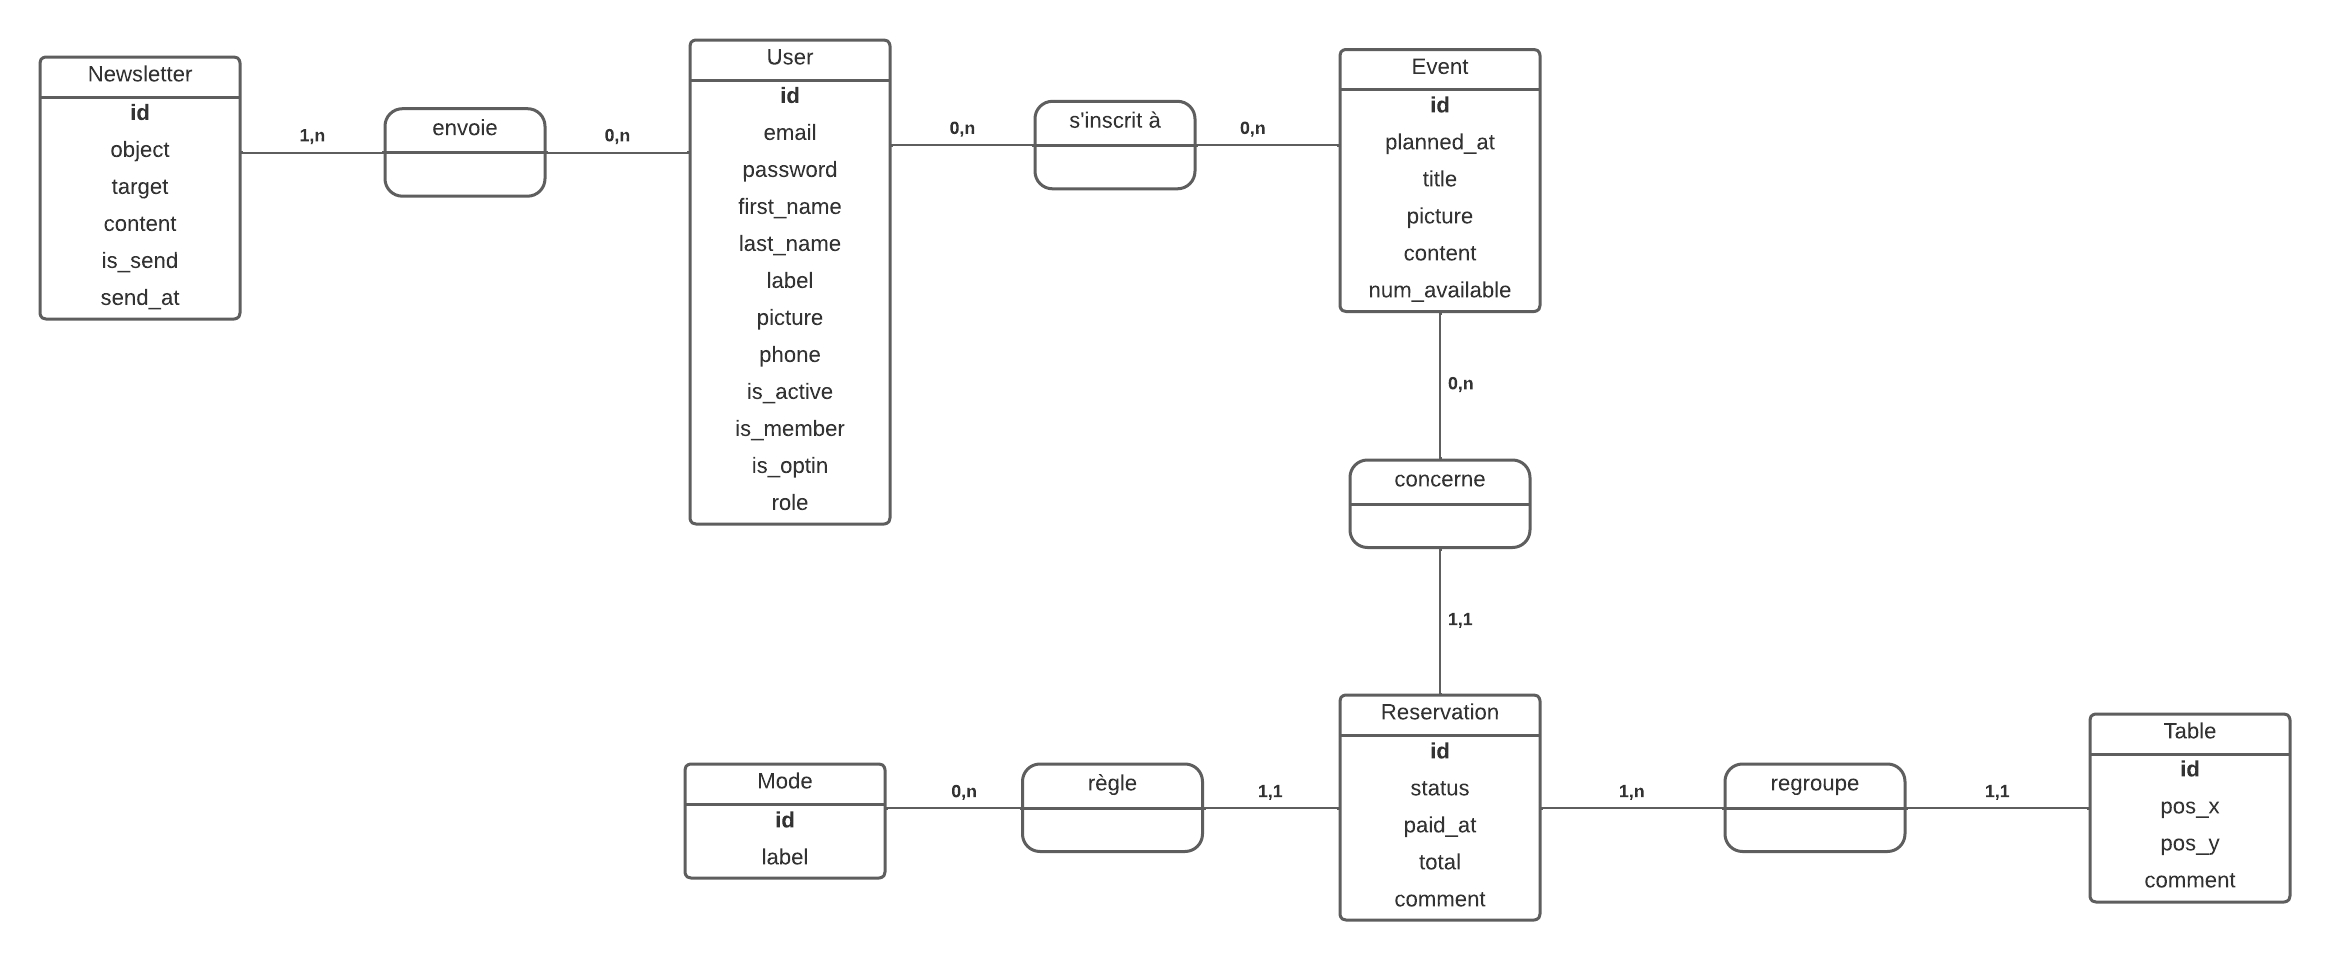
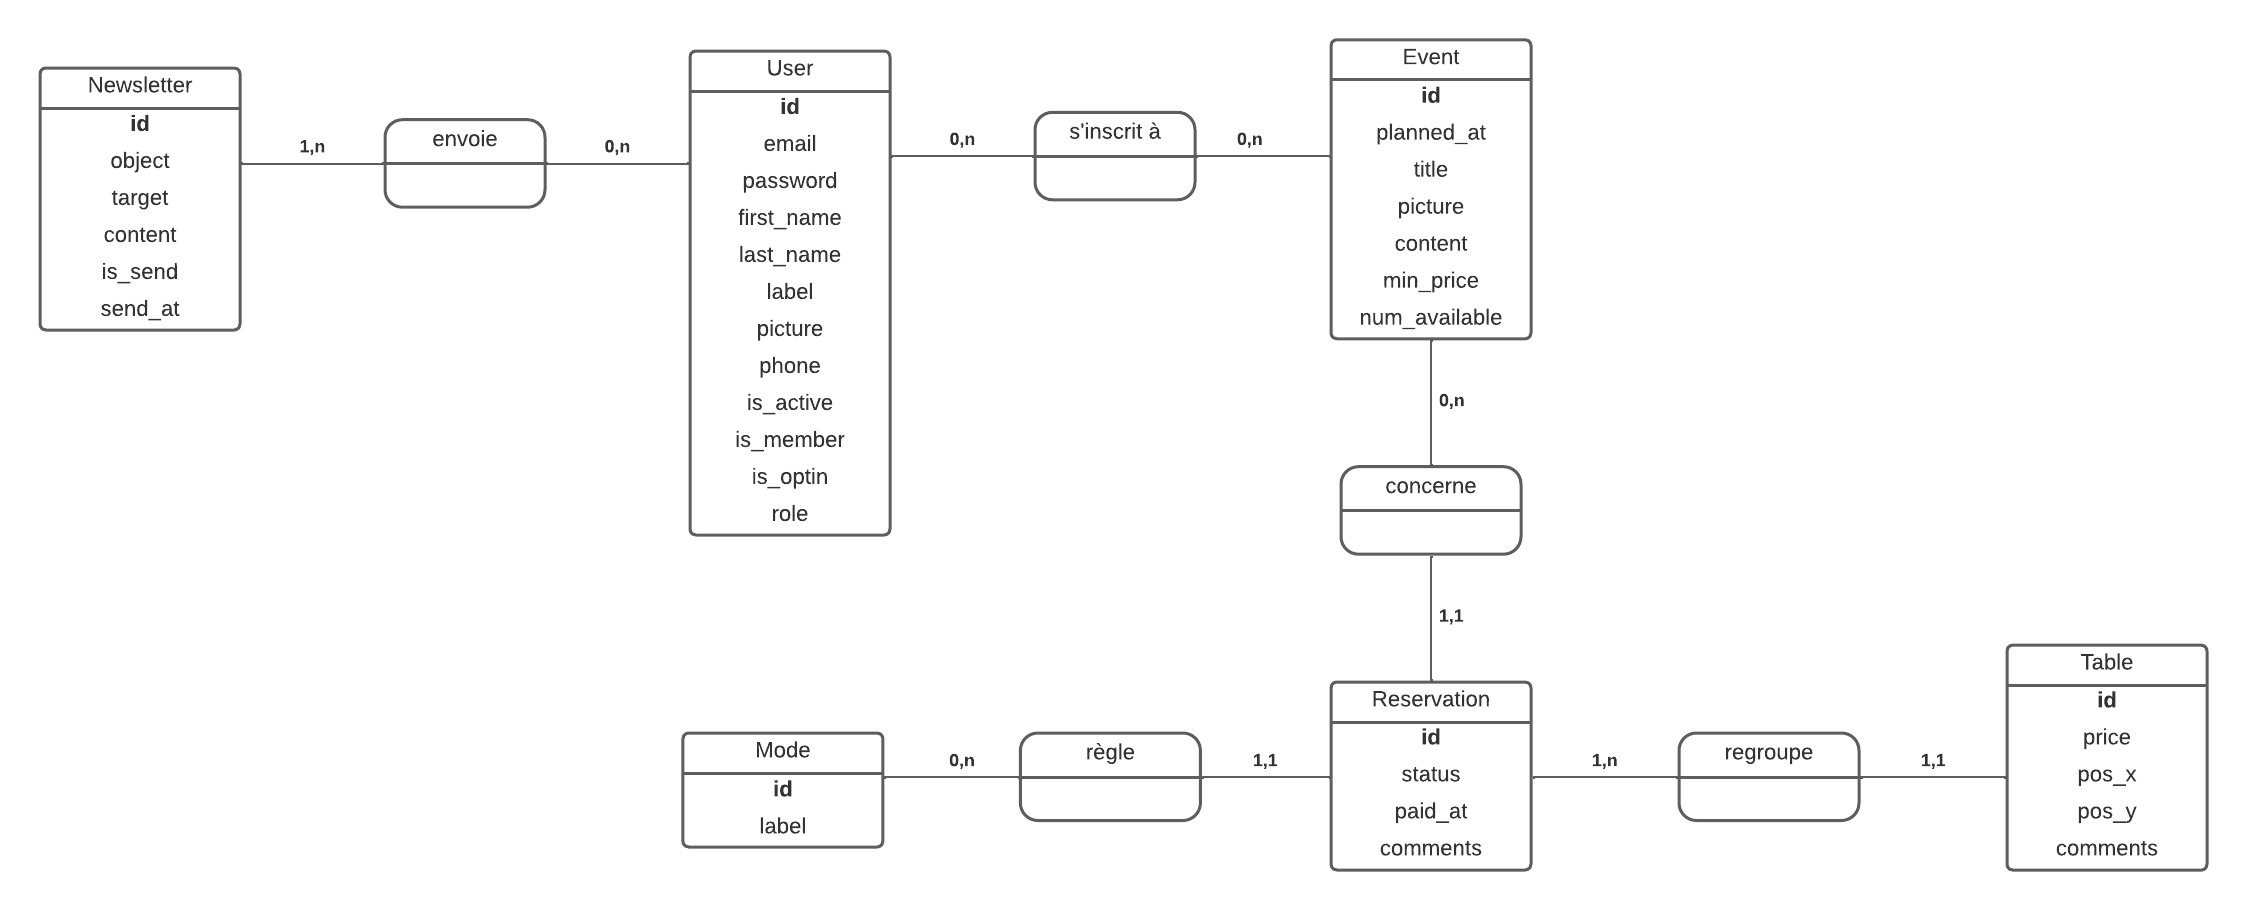
MAJ R Schemas BDD

Changed region(s): [[0.0, 0.0308, 0.6854, 0.6154], [0.2804, 0.7077, 0.9969, 0.9846], [0.5607, 0.4308, 0.6854, 0.6154]]

diff --git a/docs/admin-reservations.md b/docs/admin-reservations.md
@@ -12,39 +12,39 @@
 
 Les réservations sont listées sous forme de tableau avec :
 
-;;;
-
-- l'**id**;r.id
-- le **prénom** de l'exposant;u.first_name
-- le **nom** de l'exposant;u.last_name
-- le **libellé** de l'exposant;u.label
-- le **statut** ("A Payer", "Payé", "Annulé");r.status
-- le **nombre de tables** réservées;**count**(t.id)
-- la **somme totale** réglée;**sum**(t.price)
-- le **mode de paiement**;m.label
-- la **date de paiement**;r.paid_at
-- les **commentaires**;r.comments
+|<br />||
+|-|-|
+l'**id**|r.id
+le **prénom** de l'exposant|u.first_name
+le **nom** de l'exposant|u.last_name
+le **libellé** de l'exposant|u.label
+le **statut** ("A Payer", "Payé", "Annulé")|r.status
+le **nombre de tables** réservées|COUNT(t.id)
+la **somme totale** réglée|SUM(t.price)
+le **mode de paiement**|m.label
+la **date de paiement**|r.paid_at
+les **commentaires**|r.comments
 
 ```sql
-SELECT r.id, 
-u.first_name, u.last_name, u.label, 
-r.status,
-count (t.id) as num_tables,
-sum(t.price) as total,
-m.label,
-r.paid_at
-r.comment
-FROM reservation r
-INNER JOIN table t
-ON t.reservation_id = r.id
-INNER JOIN mode m
-ON r.mode_id = m.id
-INNER JOIN event e
-ON r.event_id = e.id
-INNER JOIN user_event ue
-ON e.id = ue.event_id
-INNER JOIN user u
-ON ue.user_id = u.id
+SELECT reservation.id, 
+user.first_name, user.last_name, user.label, 
+reservation.status,
+count (table.id) as num_tables,
+sum(table.price) as total,
+mode.label,
+reservation.paid_at
+reservation.comment
+FROM reservation
+INNER JOIN table
+ON table.reservation_id = reservation.id
+INNER JOIN mode
+ON reservation.mode_id = mode.id
+INNER JOIN event
+ON reservation.event_id = event.id
+INNER JOIN user_event
+ON event.id = user_event.event_id
+INNER JOIN user
+ON user_event.user_id = user.id
 ```
 
 ## La recherche d'une réservation
@@ -55,7 +55,28 @@ On peut rechercher une réservation avec :
 - la **date** de l'événement
 
 ```sql
-
+SELECT r.id, 
+u.first_name, u.last_name, u.label, 
+r.status,
+count (t.id) as num_tables,
+sum(t.price) as total,
+m.label,
+r.paid_at
+r.comment
+INNER JOIN table
+ON table.reservation_id = reservation.id
+INNER JOIN mode
+ON reservation.mode_id = mode.id
+INNER JOIN event
+ON reservation.event_id = event.id
+INNER JOIN user_event
+ON event.id = user_event.event_id
+INNER JOIN user
+ON user_event.user_id = user.id
+WHERE u.first_name LIKE '%' . :first_name . '%'
+OR    u.last_name LIKE '%' . :last_name . '%'
+OR    u.label LIKE '%' . :label . '%'
+OR    r.paid_at >= :paid_at
 ```
 
 ## L'ajout d'une réservation
@@ -82,8 +103,17 @@ VALUES (:status, :paid_at, :comment, :user_id, :event_id, :mode_id)
 
 **Page** : admin/reservations-form.js
 
-On peut éditer une réservation avec les informations basées sur le formulaire d'ajout, avec l'exposant indiqué et inchangeable.
+On peut éditer une réservation avec les informations basées sur le formulaire d'ajout.
+
+L'exposant et l'événement concernés restent inchangés.
 
 ```sql
-
+UPDATE reservation 
+SET status = :status,
+    paid_at = :paid_at, 
+    comment = :comment, 
+    user_id = :user_id, 
+    event_id = :event_id, 
+    mode_id = :mode_id
+WHERE id = :id
 ```

diff --git a/docs/profil-utilisateur.md b/docs/profil-utilisateur.md
@@ -27,6 +27,16 @@ L'utilisateur peut changer ses informations personnelles de base :
   - case à cocher (optin)
   - décoché par défaut
 
+```sql
+UPDATE user
+SET first_name = :first_name,
+	last_name = :last_name,
+	phone = :phone,
+	label = :label,
+	optin = :optin
+WHERE id = :id
+```
+
 ## Onglet "Identifiants de Connexion"
 
 L'utilisateur peut changer son adresse e-mail au besoin.
@@ -37,13 +47,32 @@ Il peut aussi changer son mot de passe en indiquant :
 - son **nouveau mot de passe**
 - la **confirmation du nouveau mot de passe**
 
+```sql
+UPDATE user
+SET password = :password
+```
+
 ## Onglet "Réservation"
 
 Un utilisateur peut consulter l'état de sa réservation pour le dernier événement.
 
 Il y retrouve :
 
-- l'**année du dernier événement**
-- l'**intitulé du dernier événement**
-- le **statut de paiement**
-- la **date de paiement**
+|||
+|-|-|
+la **date du dernier événement**;e.planned_at
+l'**intitulé du dernier événement**;e.title
+le **statut de paiement**;r.status
+la **date de paiement**;r.paid_at
+
+```sql
+SELECT e.planned_at, e.title,
+	   r.status, r.paid_at
+FROM event e
+INNER JOIN reservation r
+ON e.id = r.event_id
+INNER JOIN user_event inter
+ON e.id = inter.event_id
+INNER JOIN user
+ON inter.user_id = u.id
+```
